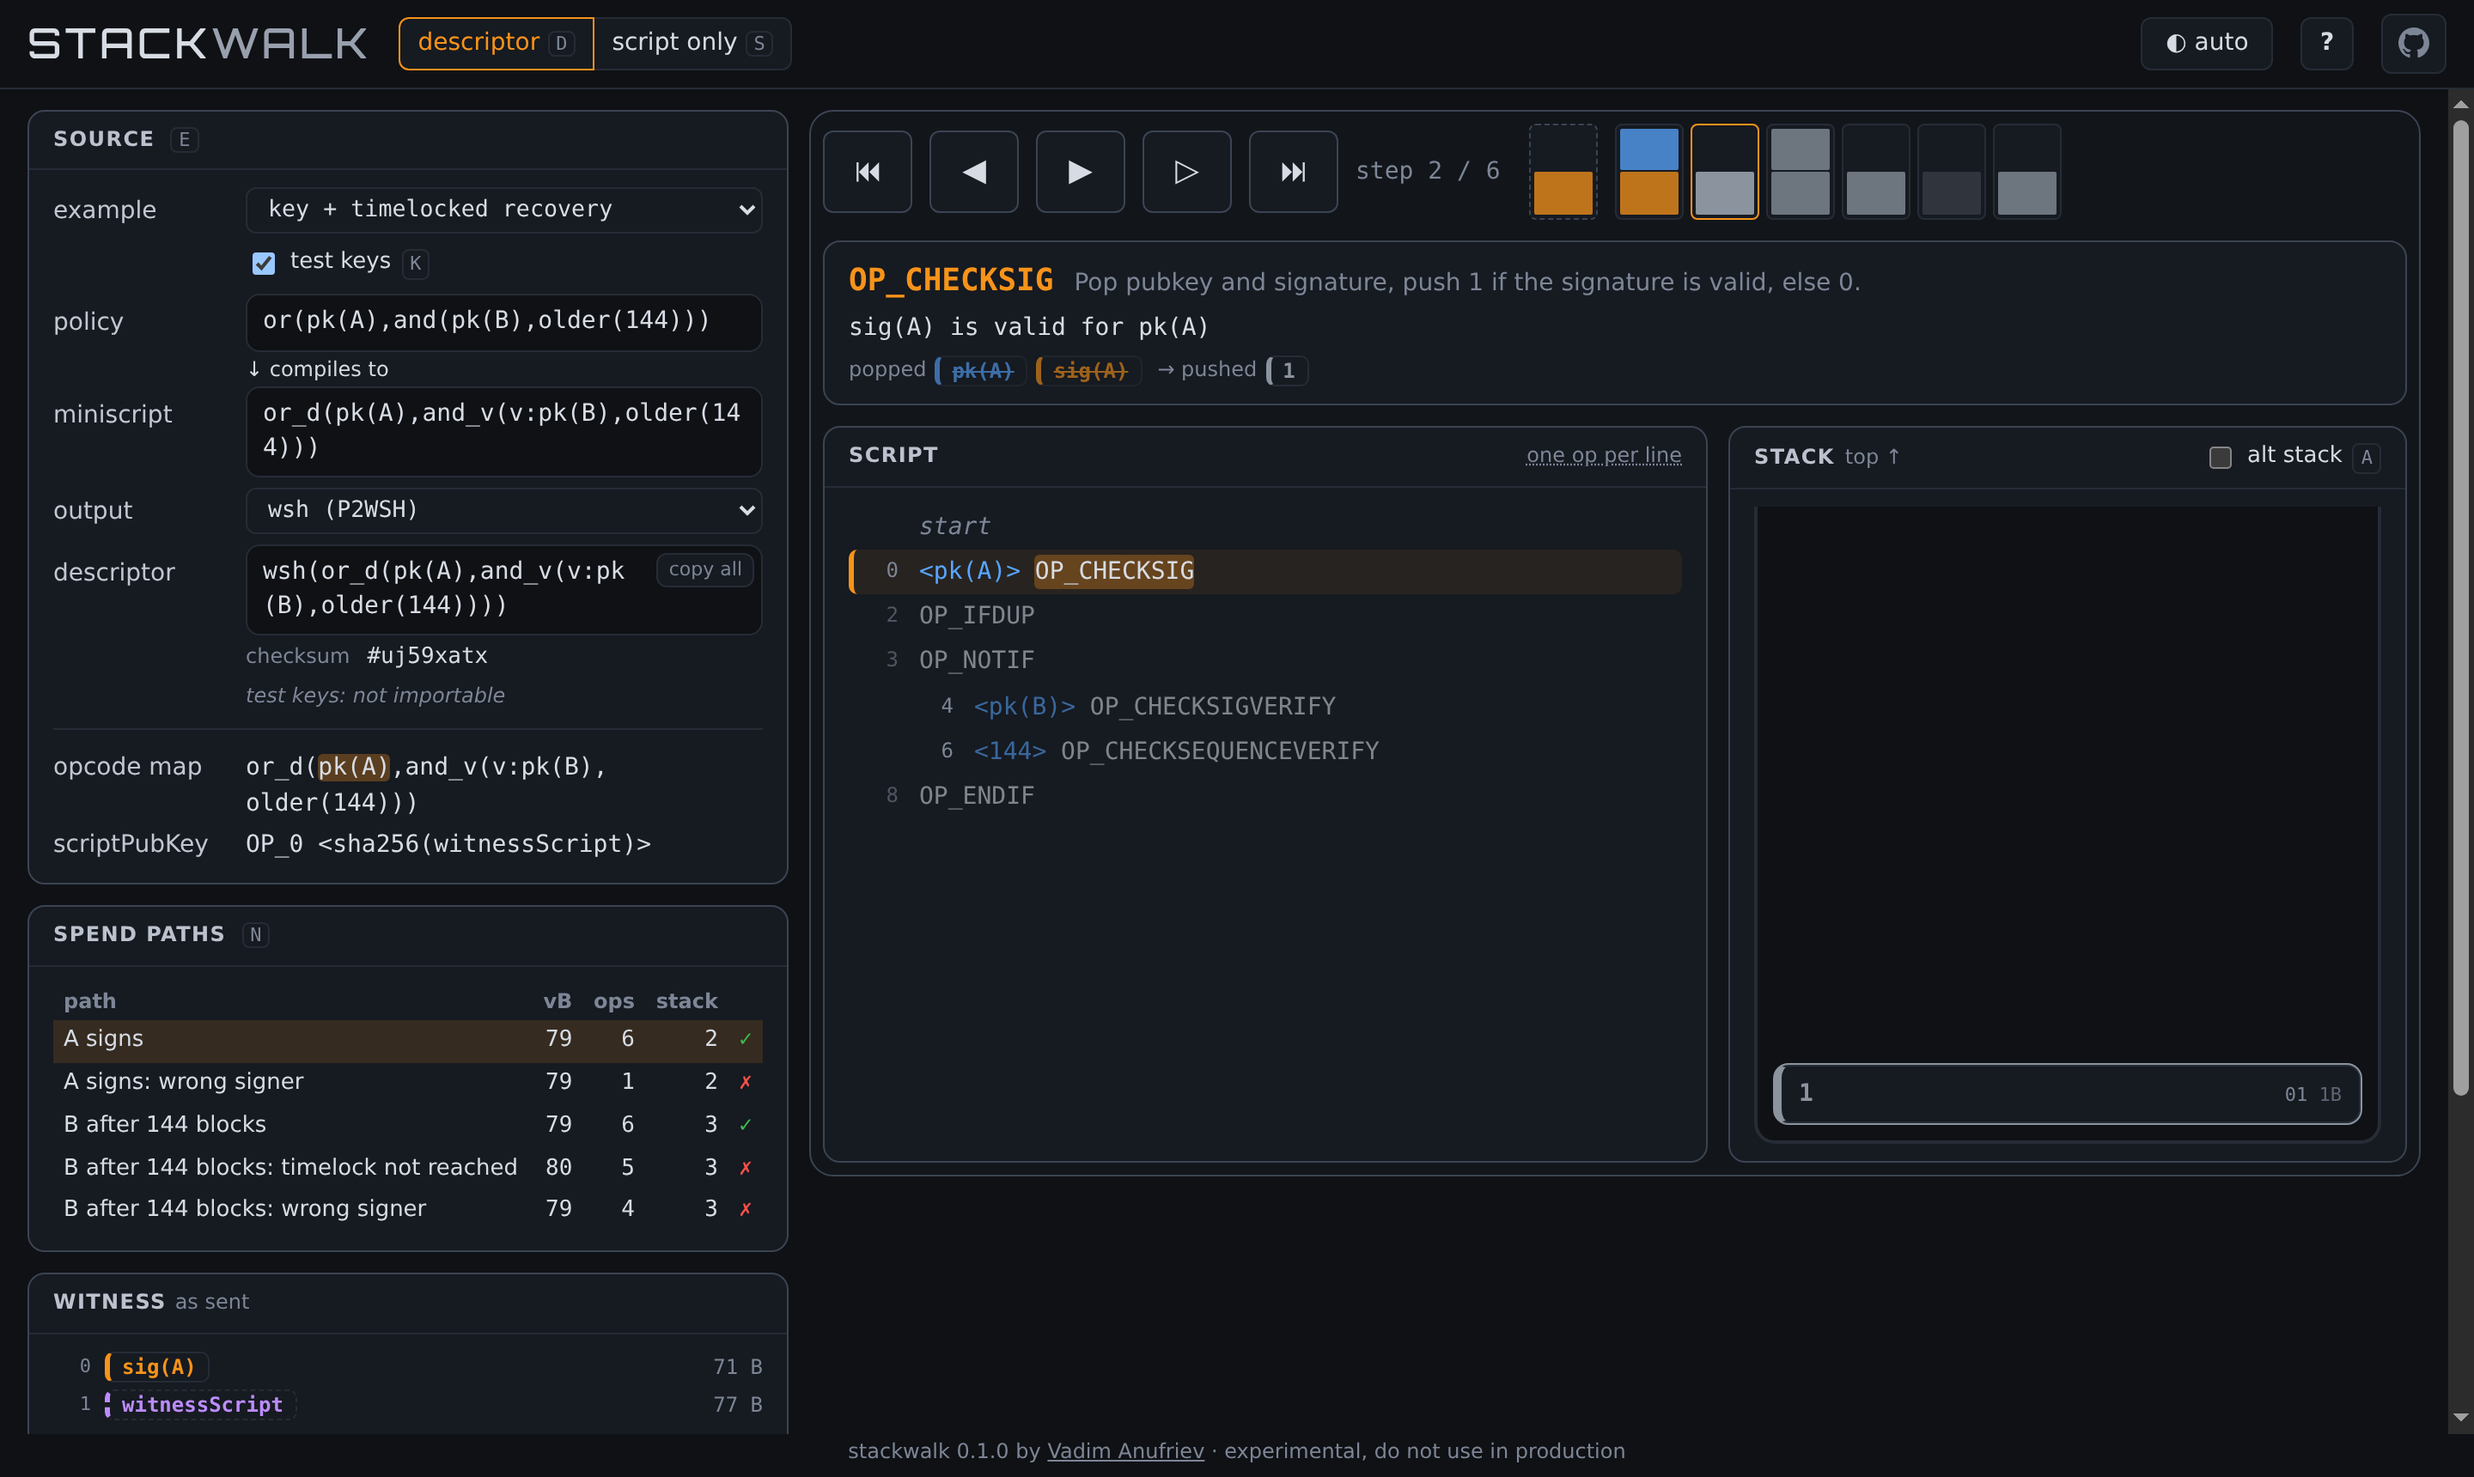
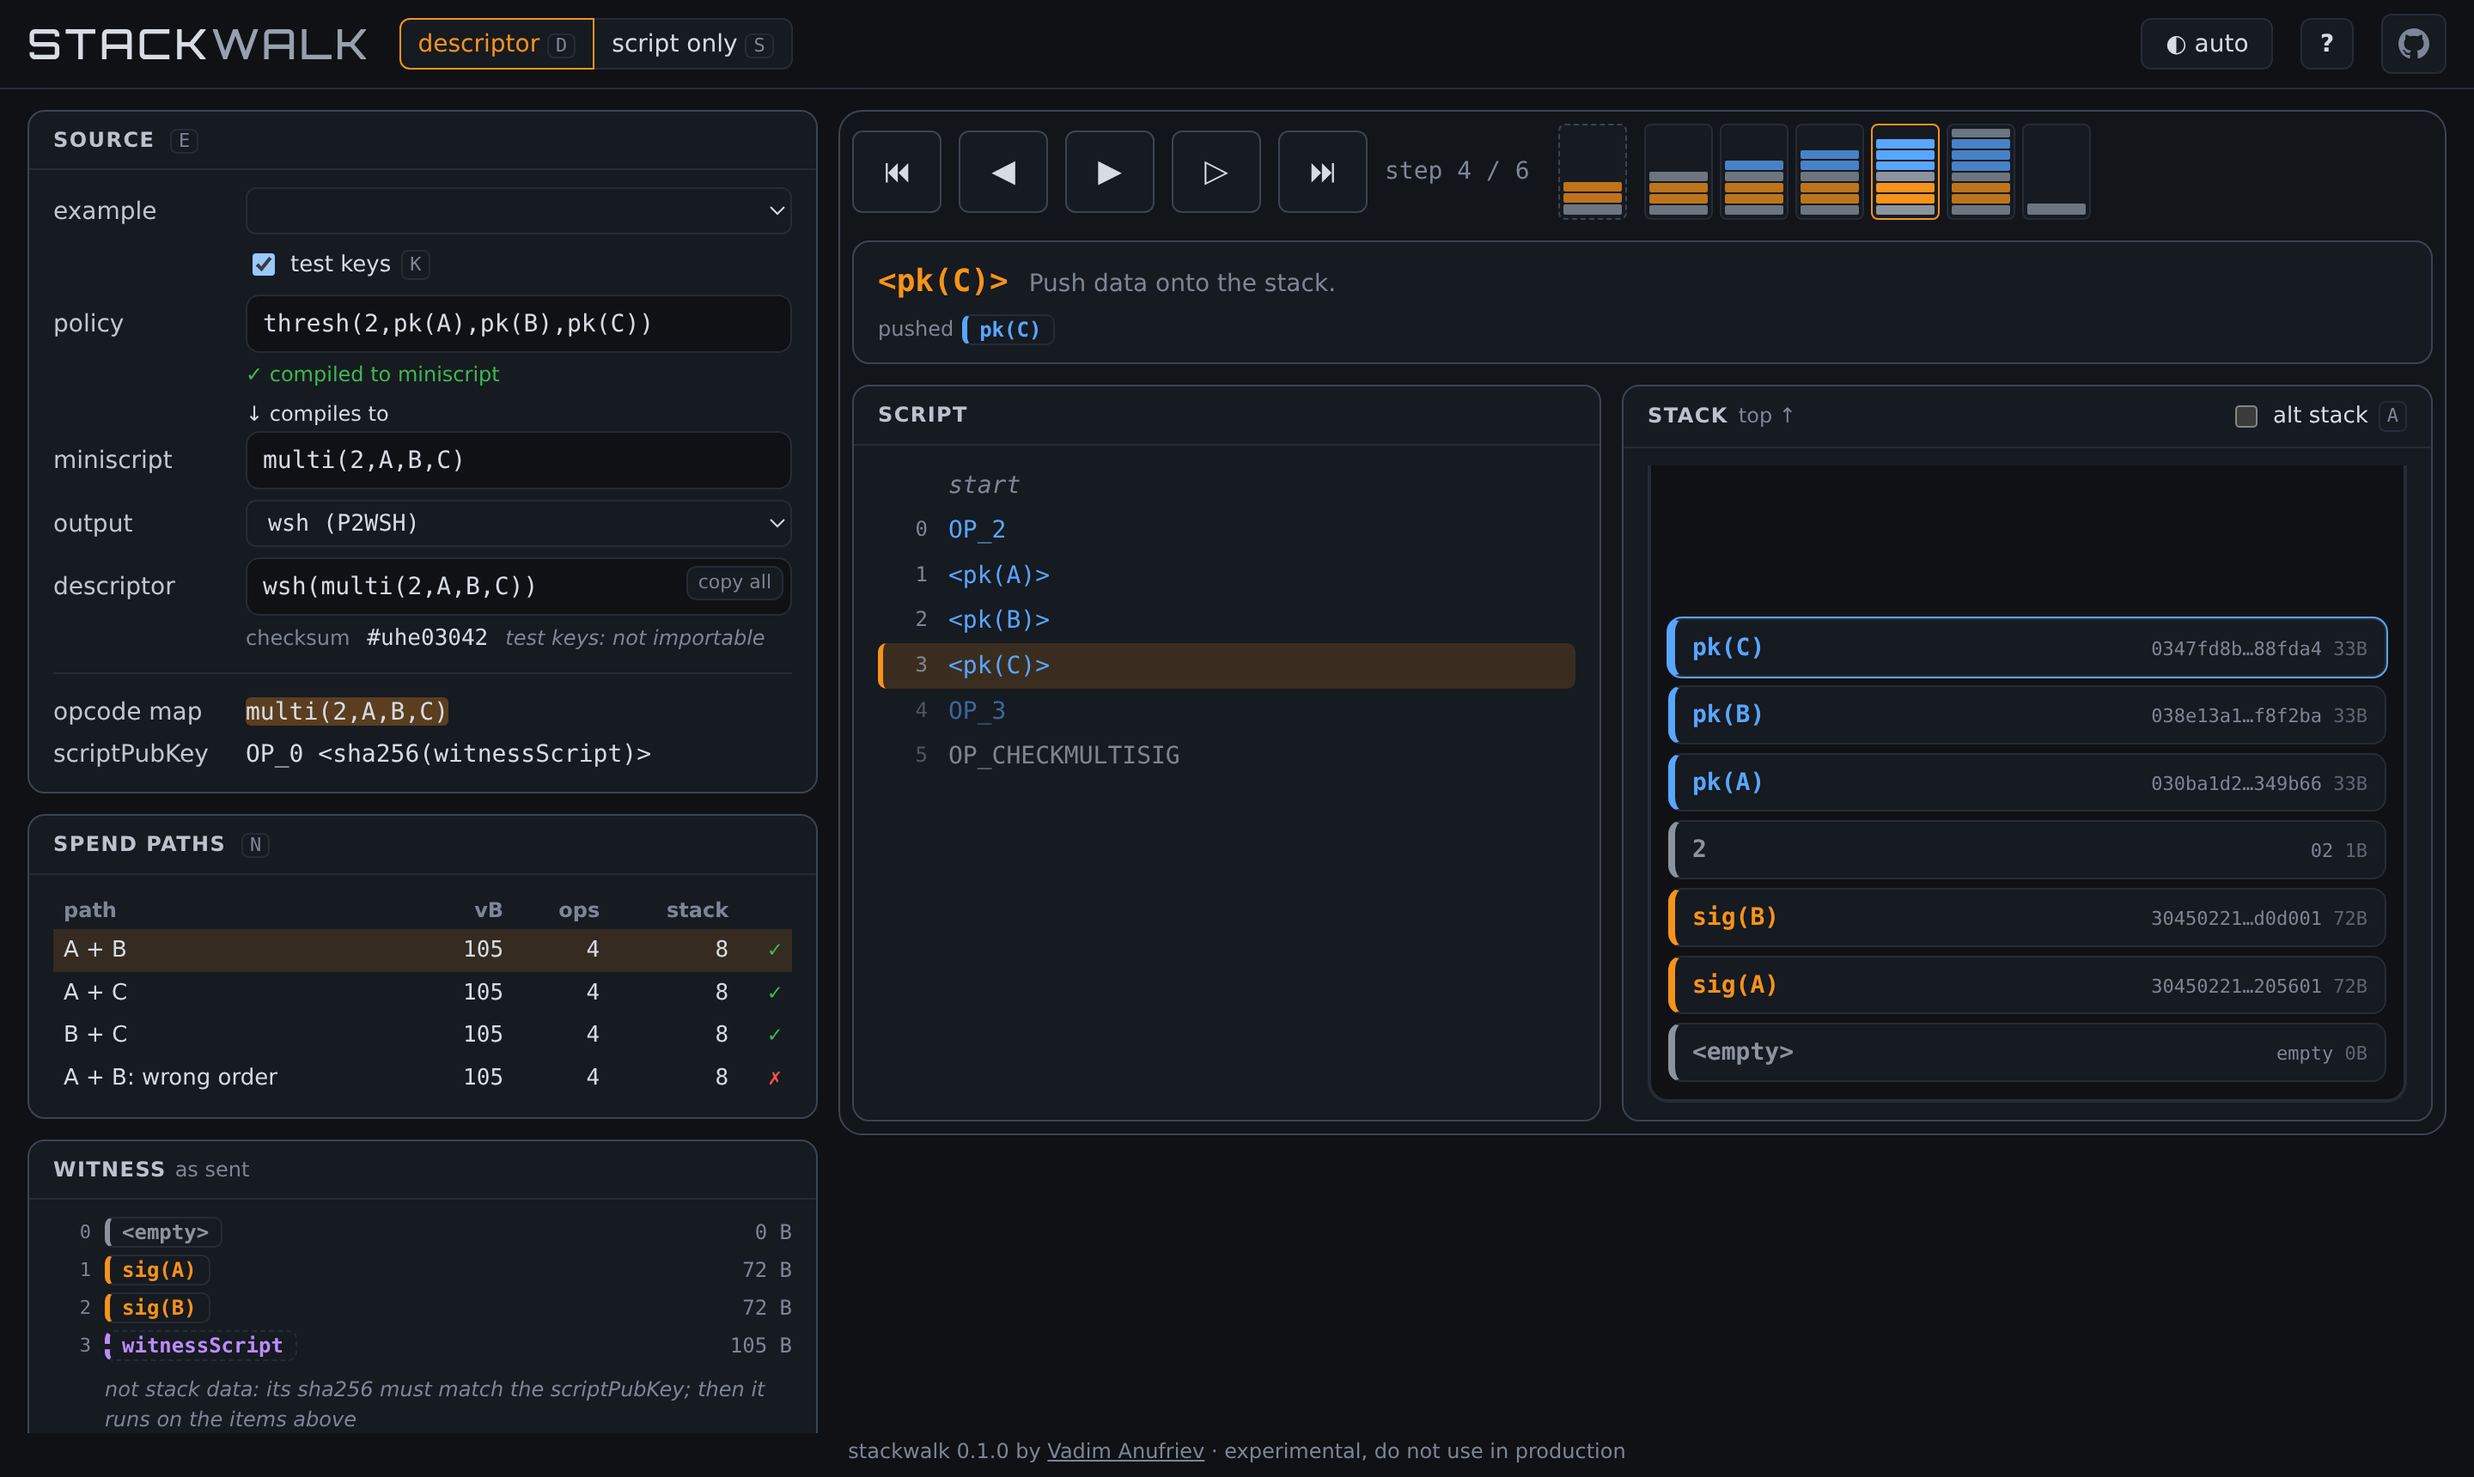
README: screenshot with a full stack
2-of-3 policy, step 4: the stack is full, the policy field filled. Dark, 1440x860 at 2x, no scrollbar.

Claude-Session: https://claude.ai/code/session_01Ramnky7AK7JPiCVkrPYGH1

diff --git a/README.md b/README.md
@@ -2,7 +2,7 @@
 
 Step through Bitcoin Script with the stack drawn at every opcode. Write a policy, miniscript or descriptor (or raw Script), pick a spend path, walk the run.
 
-![stackwalk: a policy compiled to miniscript and P2WSH, its spend paths, and OP_CHECKSIG in the middle of a run](docs/screenshot.png)
+![stackwalk: a 2-of-3 policy compiled to miniscript and P2WSH, its spend paths, and the stack in the middle of the run](docs/screenshot.png)
 
 Live at [vadim.rs/stackwalk](https://vadim.rs/stackwalk) (soon).
 
